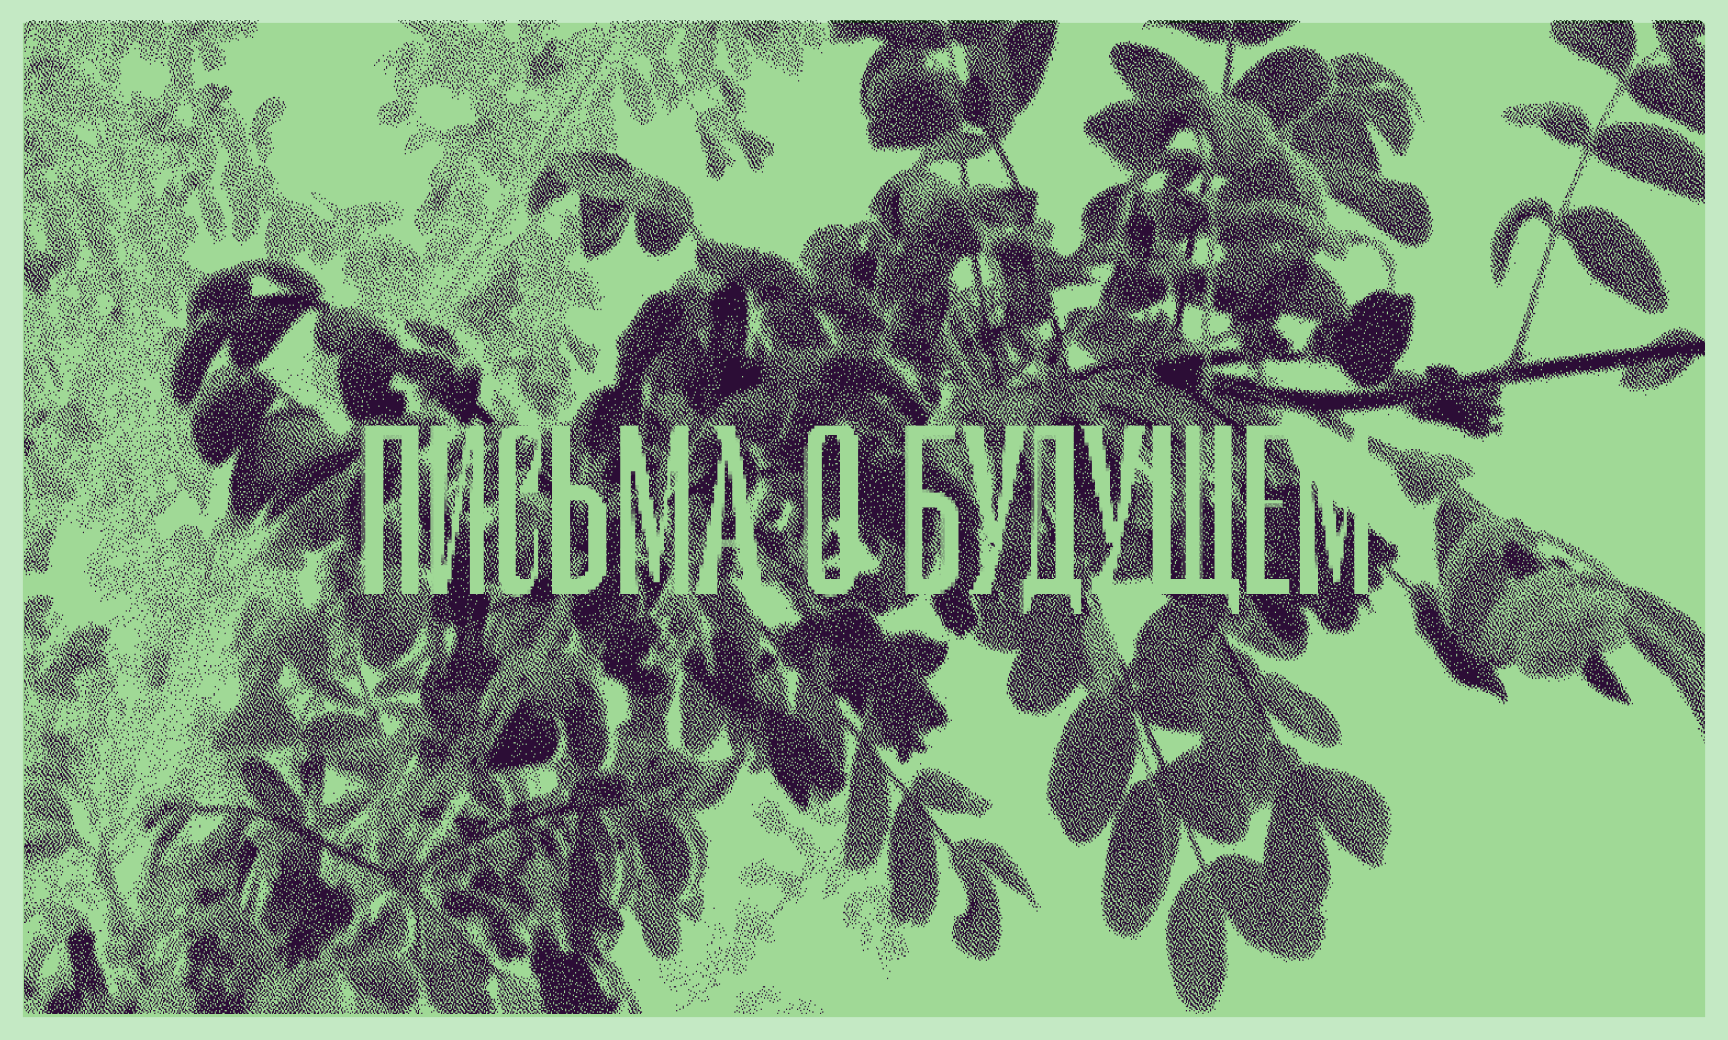
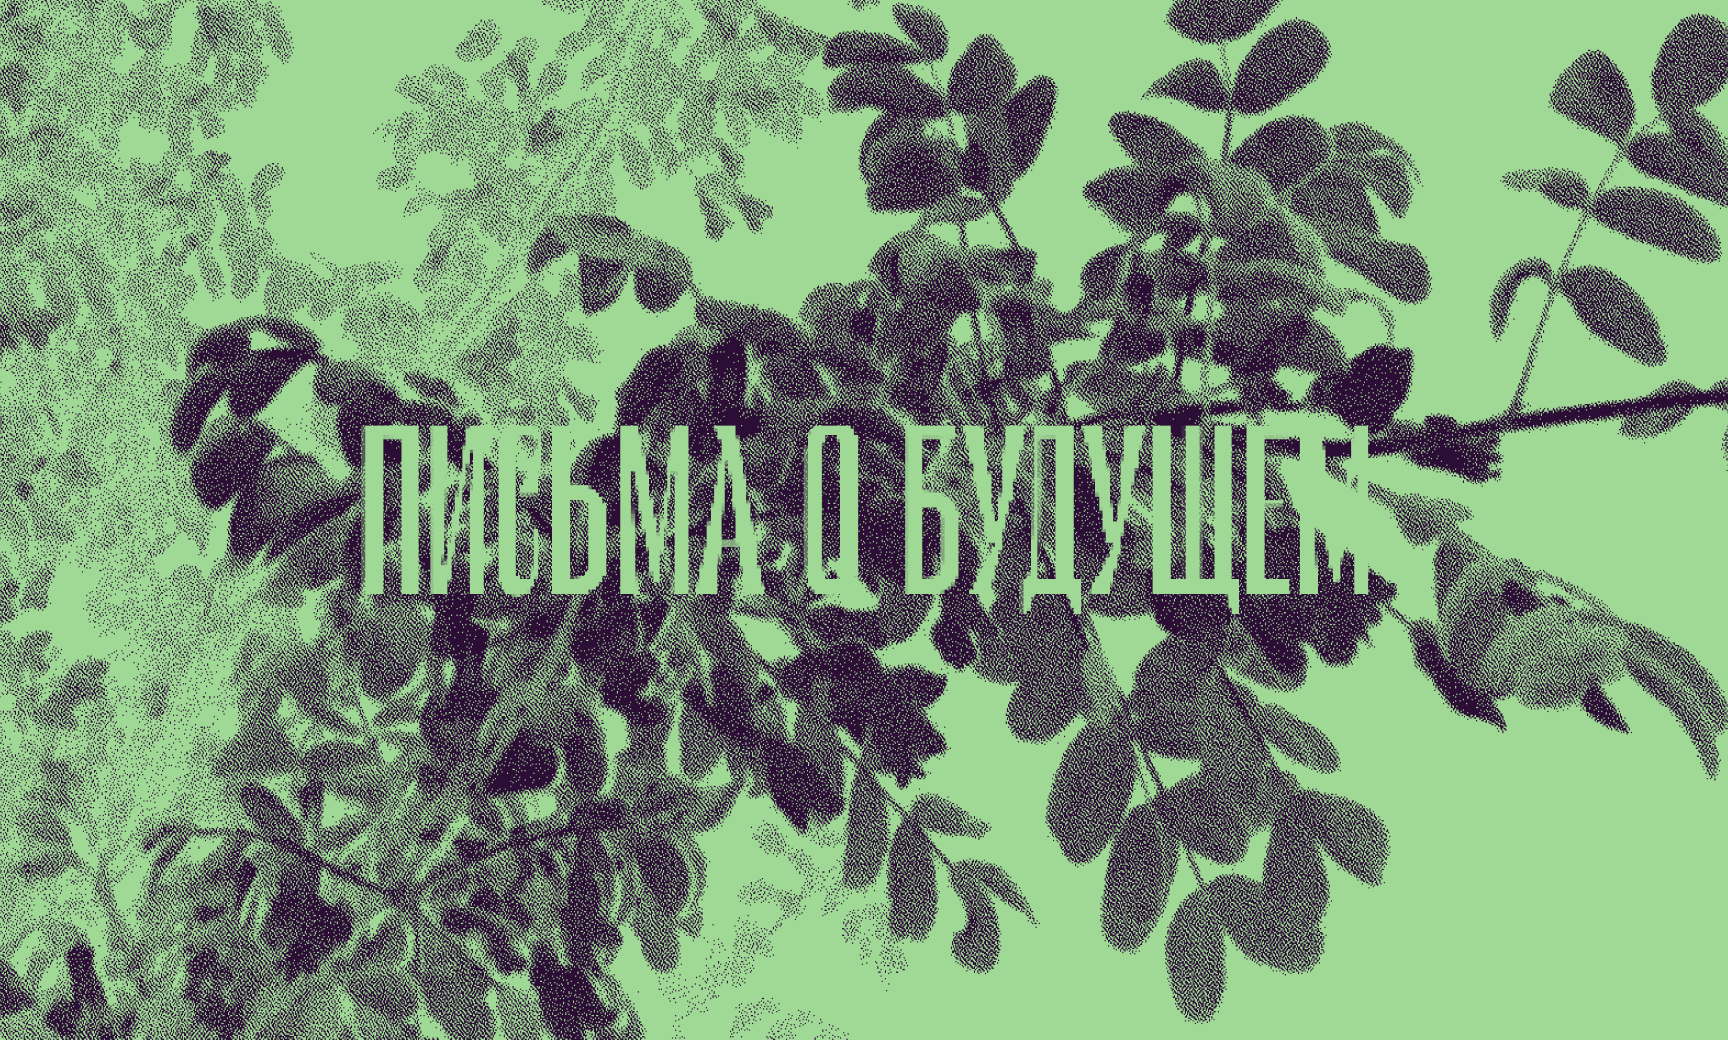
Testing OG

diff --git a/fwd-letters.html b/fwd-letters.html
@@ -7,23 +7,23 @@
     <meta charset="UTF-8">
     <meta name="viewport" content="width=device-width, initial-scale=1.0 viewport-fit=cover">
 
-    <title>Трендвотчинг, форсайт, футуризм и&nbsp;еще три способа думать о&nbsp;будущем</title>
-    <meta name="description" content="Разбираемся, что стоит за&nbsp;этими терминами и&nbsp;как правильно их&nbsp;применять">
+    <title>FWD: Письма о&nbsp;будущем. Спецпроект сверхновой</title>
+    <meta name="description" content="Это переписка из&nbsp;8&nbsp;писем о&nbsp;том, как и&nbsp;где производится личное и&nbsp;коллективное завтра">
 
     <!-- Facebook Meta Tags -->
     <meta property="og:url" content="supernova.is">
     <meta property="og:type" content="website">
-    <meta property="og:title" content="Трендвотчинг, форсайт, футуризм и&nbsp;еще три способа думать о&nbsp;будущем">
-    <meta property="og:description" content="Разбираемся, что стоит за&nbsp;этими терминами и&nbsp;как правильно их&nbsp;применять">
-    <meta property="og:image" content="/img/trendwatching/og.jpg">
+    <meta property="og:title" content="FWD: Письма о&nbsp;будущем. Спецпроект сверхновой">
+    <meta property="og:description" content="Это переписка из&nbsp;8&nbsp;писем о&nbsp;том, как и&nbsp;где производится личное и&nbsp;коллективное завтра">
+    <meta property="og:image" content="/img/letters-about-the-future/13.png">
 
     <!-- Twitter Meta Tags -->
     <meta name="twitter:card" content="summary_large_image">
     <meta property="twitter:domain" content="supernova.is">
     <meta property="twitter:url" content="supernova.is">
-    <meta name="twitter:title" content="Трендвотчинг, форсайт, футуризм и&nbsp;еще три способа думать о&nbsp;будущем">
-    <meta name="twitter:description" content="Разбираемся, что стоит за&nbsp;этими терминами и&nbsp;как правильно их&nbsp;применять">
-    <meta name="twitter:image" content="/img/trendwatching/og.jpg">
+    <meta name="twitter:title" content="FWD: Письма о&nbsp;будущем. Спецпроект сверхновой">
+    <meta name="twitter:description" content="Это переписка из&nbsp;8&nbsp;писем о&nbsp;том, как и&nbsp;где производится личное и&nbsp;коллективное завтра">
+    <meta name="twitter:image" content="/img/letters-about-the-future/13.png">
 
     <!-- Meta Tags Generated via https://www.opengraph.xyz -->
 
